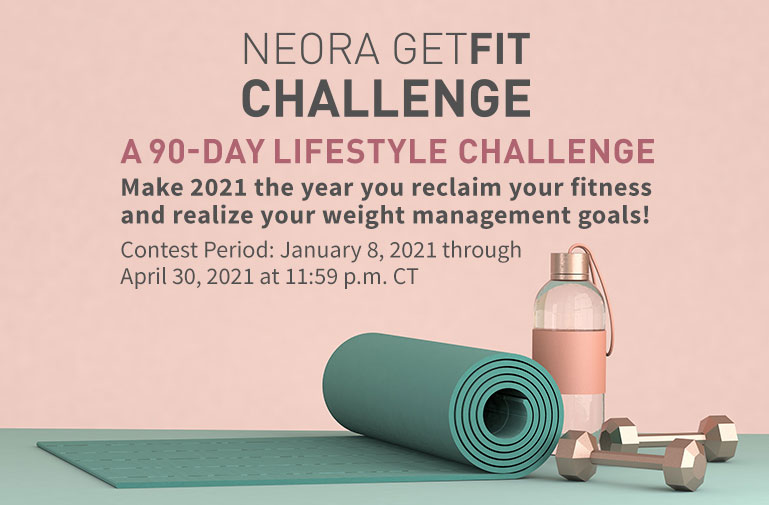
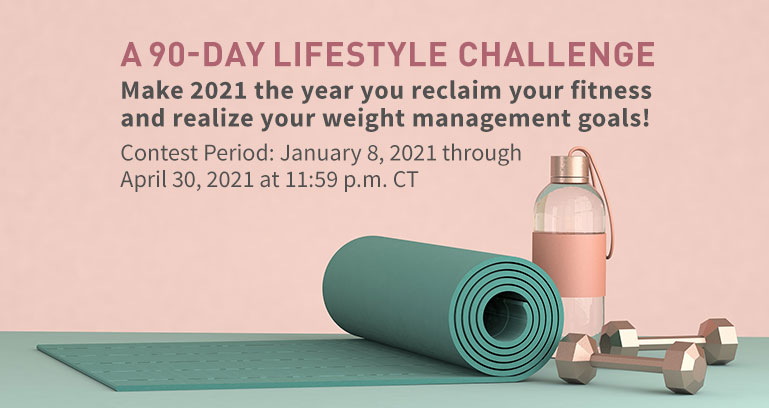
final commit

Changed region(s): [[0.0, 0.3529, 1.0, 1.0], [0.156, 0.0588, 0.8739, 0.3235]]

diff --git a/index.html b/index.html
@@ -19,6 +19,7 @@
     
     <!-- nav -->
     <header>
+        <img class="sitecore-img" src="./assets/header/header.jpg" alt="Neora GetFit Challenge Logo">
         <img class="local-img" src="./assets/header/header.jpg" alt="Neora GetFit Challenge Logo">
     </header>
     <!-- END nav -->
@@ -26,6 +27,9 @@
     <main class="getfit-wrapper page-container">
         <!-- hero -->
         <div class="hero">
+            <img src="./assets/banners/mobile.jpg" alt="Neora GetFit hero image" class="sitecore-img mobile">
+            <img src="./assets/banners/desktop.jpg" alt="Neora GetFit hero image" class="sitecore-img desktop">
+
             <img src="./assets/banners/mobile.jpg" alt="Neora GetFit hero image" class="local-img mobile">
             <img src="./assets/banners/desktop.jpg" alt="Neora GetFit hero image" class="local-img desktop">
         </div>
@@ -35,21 +39,31 @@
         <section class="prizes">
             <!-- card 1 -->
             <div class="card card1">
+
+                <img src="./assets/content/bike.png" alt="Peloton Bike prize" class="sitecore-img">
                 <img src="./assets/content/bike.png" alt="Peloton Bike prize" class="local-img">
+
+
                 <p class="bold fit-purple">First Place</p>
                 <p class="bold">Peloton® Bike</p>
             </div>
 
             <!-- card 2 -->
             <div class="card card2">
+
+                <img src="./assets/content/card.png" alt="Gift Card to Home Chef prize" class="sitecore-img">
                 <img src="./assets/content/card.png" alt="Gift Card to Home Chef prize" class="local-img">
+
                 <p class="bold fit-purple">Second Place</p>
                 <p class="bold">$500 Home Chef Gift Card</p>
             </div>
 
             <!-- card 3 -->
             <div class="card card3">
+
+                <img src="./assets/content/watch.png" alt="Fitbit® Versa 2™ Smartwatch prize" class="sitecore-img">
                 <img src="./assets/content/watch.png" alt="Fitbit® Versa 2™ Smartwatch prize" class="local-img">
+
                 <p class="bold fit-purple">Third Place</p>
                 <p class="bold">Fitbit® Versa 2™ Smartwatch</p>
             </div>
@@ -73,6 +87,11 @@
                 </div>
                 <div class="step">
                     <h3 class="bold fit-purple">Step 2</h3>
+                    <p class="bold">NeoraFit Wellness & Weight Management System</p>
+                    <p>Use NeoraFit Supplements and adopt Slight Edge Daily Habits for 90 days. </p>
+                </div>
+                <div class="step">
+                    <h3 class="bold fit-purple">Step 3</h3>
                     <p class="bold">Upload Your Story And Before/After Photos</p>
                     <p>It’s show and tell time. Let us know how you did! </p>
                     <a target="_blank" href="https://airtable.com/shrDeTmVtZ3BJHH0V" class="link-btn bold fp">Submit My Results</a>
@@ -99,26 +118,41 @@
             <div class="slideshow-container"> 
                 <!-- Full-width images with number and caption text -->
                 <div class="mySlides fade">
+                    <img class="sitecore-img" src="./assets/transformations/t1.png" alt="">
+                    <img class="sitecore-img" src="./assets/transformations/t2.png" alt="">
+
                     <img class="local-img" src="./assets/transformations/t1.png" alt="">
                     <img class="local-img" src="./assets/transformations/t2.png" alt="">
                 </div>
                 
                 <div class="mySlides fade">
+                    <img class="sitecore-img" src="./assets/transformations/t3.png" alt="">
+                    <img class="sitecore-img" src="./assets/transformations/t4.png" alt="">
+
                     <img class="local-img" src="./assets/transformations/t3.png" alt="">
                     <img class="local-img" src="./assets/transformations/t4.png" alt="">
                 </div>
                 
                 <div class="mySlides fade">
+                    <img class="sitecore-img" src="./assets/transformations/t5.png" alt="">
+                    <img class="sitecore-img" src="./assets/transformations/t6.png" alt="">
+
                     <img class="local-img" src="./assets/transformations/t5.png" alt="">
                     <img class="local-img" src="./assets/transformations/t6.png" alt="">
                 </div>
                 
                 <div class="mySlides fade">
+                    <img class="sitecore-img" src="./assets/transformations/t7.png" alt="">
+                    <img class="sitecore-img" src="./assets/transformations/t8.png" alt="">
+
                     <img class="local-img" src="./assets/transformations/t7.png" alt="">
                     <img class="local-img" src="./assets/transformations/t8.png" alt="">
                 </div>
                 
                 <div class="mySlides fade">
+                    <img class="sitecore-img" src="./assets/transformations/t9.png" alt="">
+                    <img class="sitecore-img" src="./assets/transformations/t10.png" alt="">
+
                     <img class="local-img" src="./assets/transformations/t9.png" alt="">
                     <img class="local-img" src="./assets/transformations/t10.png" alt="">
                 </div>
@@ -136,14 +170,10 @@
             <!-- links -->
             <div class="linkgroup">
                 <div class="link-group">
-                    <a href="">About Us</a>
-                    <a href="">Neora.com</a>
-                    <a href="">Help/FAQ</a>
+                    <a href="">Contest Rules</a>
                 </div>
                 <div class="link-group">
-                    <a href="">Terms & Conditions</a>
-                    <a href="">Privacy Policy</a>
-                    <a href="">Legal Info</a>
+                    <a href="">Help/FAQ</a>
                 </div>
             </div>
             
@@ -157,7 +187,7 @@
                     <a href="https://www.linkedin.com/company/officialneora/" clas="icon-footer-linkedin"></a>
                     <a href="https://www.instagram.com/official_neora/" clas="icon-footer-instagram"></a>
                 </div>
-                <p class="legal">&copy; 2020 Neora&trade;,LLC</p>
+                <p class="legal">&copy; 2021 Neora&trade;,LLC</p>
             </div>
         </div>
     </footer>

diff --git a/css/styles.css b/css/styles.css
@@ -65,7 +65,7 @@ h3 {
 }
 
 .link-btn {
-  border-radius: 5px;
+  border-radius: 25px;
   padding: 10px 20px;
   display: block;
   width: 180px;
@@ -377,6 +377,10 @@ footer .social-group .icon-group {
 }
 footer .social-group .legal {
   font-size: 0.8em;
+}
+
+.sitecore-img {
+  display: none !important;
 }
 
 /*# sourceMappingURL=styles.css.map */

diff --git a/scss/base/_links.scss b/scss/base/_links.scss
@@ -1,5 +1,5 @@
 .link-btn {
-    border-radius: 5px;
+    border-radius: 25px;
     padding: 10px 20px;
     display: block;
     width: 180px;

diff --git a/scss/base/_overrides.scss b/scss/base/_overrides.scss
@@ -1,0 +1,7 @@
+.sitecore-img {
+    display: none!important;
+}
+
+// .local-img {
+//     display: none!important;
+// }

diff --git a/scss/styles.scss b/scss/styles.scss
@@ -1,1 +1,2 @@
 @import 'util/index', 'base/index', 'components/index';
+@import 'base/overrides';
